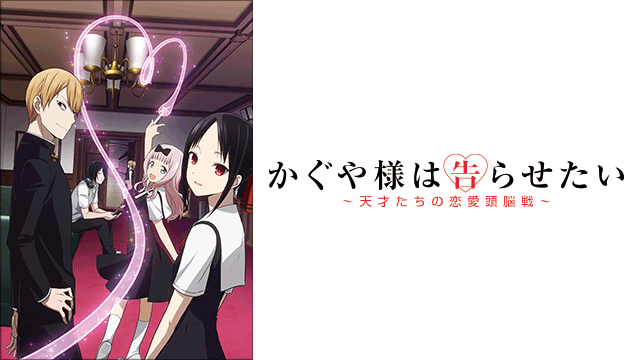
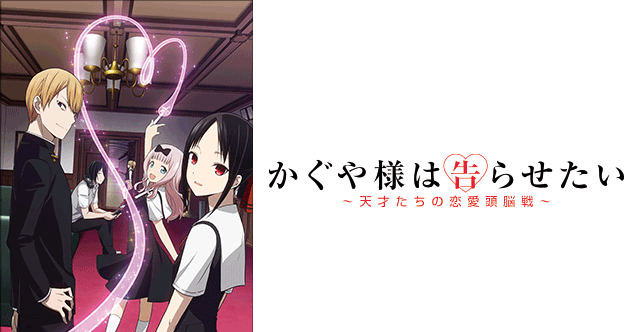
タイトルレスポンシブ完成

Changed region(s): [[0.0, 0.0, 0.989, 1.0]]

diff --git a/stylesheet.scss b/stylesheet.scss
@@ -14,7 +14,6 @@ time, mark, audio, video {
   padding: 0;
   border: 0;
   outline: 0;
-  font-size: 100%;
   vertical-align: baseline;
   background: transparent;
 }
@@ -28,7 +27,7 @@ html,body{
     width: 100%;
 }
 *{
-    font-size: 16px;
+    font-size: 18px;
     line-height: 1.5em;
 }
 
@@ -71,13 +70,13 @@ html,body{
     display: none;
 }
 .start{
-font-size: 1.25rem;
+font-size: 1.4rem;
 text-align: center;
 padding-top: 10px;
 }
 .image{
     width: 100%;
-    height: 230px;
+    height:220px;
 }
 .irohaA{
   width: 100%;
@@ -98,7 +97,7 @@ padding-top: 10px;
     background-color: rgb(241, 227, 171);
 }
 .startT{
-font-size: 1.25rem;
+font-size: 1.7rem;
 padding-bottom: 18px;
 text-align: center;
 }
@@ -115,7 +114,7 @@ text-align: center;
     font-size: 1rem;
 }
 .p3{
-    font-size: 1.5rem;
+    font-size: 1.7rem;
     text-align: center;
     padding-top: 30px;
     padding-bottom: 24px;
@@ -325,7 +324,36 @@ h4{
     display: none;
 }
 
+
+@media (min-width:540px){
+
+  .imgContain{
+    text-align: center;
+  }
+  .image{
+    width: 100%;
+    height:300px;
+}
+}
+
 @media (min-width:1024px){
+  .image{
+    width: 100%;
+    height:480px;
+}
+.flex-skin{
+  display: flex;
+  padding-left: 20px;
+  padding-right: 20px;
+}
+.btn{
+  margin-top: 20px;
+}
+.wide-moniter{
+  width: 50%;
+  padding-left: 20px;
+  padding-right: 20px;
+}
   .card{
     width:192px;
     height:192px;

diff --git a/stylesheet.css b/stylesheet.css
@@ -15,7 +15,6 @@ time, mark, audio, video {
   padding: 0;
   border: 0;
   outline: 0;
-  font-size: 100%;
   vertical-align: baseline;
   background: transparent;
 }
@@ -33,7 +32,7 @@ html, body {
 }
 
 * {
-  font-size: 16px;
+  font-size: 18px;
   line-height: 1.5em;
 }
 
@@ -78,14 +77,14 @@ html, body {
 }
 
 .start {
-  font-size: 1.25rem;
+  font-size: 1.4rem;
   text-align: center;
   padding-top: 10px;
 }
 
 .image {
   width: 100%;
-  height: 230px;
+  height: 220px;
 }
 
 .irohaA {
@@ -111,7 +110,7 @@ html, body {
 }
 
 .startT {
-  font-size: 1.25rem;
+  font-size: 1.7rem;
   padding-bottom: 18px;
   text-align: center;
 }
@@ -130,7 +129,7 @@ html, body {
 }
 
 .p3 {
-  font-size: 1.5rem;
+  font-size: 1.7rem;
   text-align: center;
   padding-top: 30px;
   padding-bottom: 24px;
@@ -392,7 +391,36 @@ h4 {
   display: none;
 }
 
+@media (min-width: 540px) {
+  .imgContain {
+    text-align: center;
+  }
+  .image {
+    width: 100%;
+    height: 300px;
+  }
+}
+
 @media (min-width: 1024px) {
+  .image {
+    width: 100%;
+    height: 480px;
+  }
+  .flex-skin {
+    display: -webkit-box;
+    display: -ms-flexbox;
+    display: flex;
+    padding-left: 20px;
+    padding-right: 20px;
+  }
+  .btn {
+    margin-top: 20px;
+  }
+  .wide-moniter {
+    width: 50%;
+    padding-left: 20px;
+    padding-right: 20px;
+  }
   .card {
     width: 192px;
     height: 192px;

diff --git a/index.html b/index.html
@@ -23,7 +23,7 @@
 </div>
 <div class="y">
   <div id="imagC" class="imgContain">
-    <h3 id="clearTime" class="startT">---- 遊び方 ----</h3>
+    <h3 id="clearTime" class="startT">～ 遊び方 ～</h3>
     <p class="p">パネルをクリックして同じ絵柄を2枚そろえて消していきましょう。</p>
     <p class="p">パネルをクリックすると画像シーンのボイスが流れます。</p>
     <p class="p">全て消えるとクリアです。</p>
@@ -31,20 +31,29 @@
   </div>
 </div>
 
-<p class="p3">---- ゲームモード選択----</p>
+<p class="p3">～ ゲームスキン選択 ～</p>
 <p class="p2">キャラボイスは各編全20種のうち10種がランダムに出現！</p>
+
+<div class="flex-skin">
+<div class="wide-moniter">
 <div class="select-image-contain">
 <img id="irohaImg" class="select-iroha" src="image/maxresdefault.jpg" alt="画像">
 </div>
 <div class="btn-back-color">
 <button id="irohaBtn" class="btn iroha">一色いろは編</button>
 </div>
+</div>
+
+<div class="wide-moniter">
 <div class="select-image-contain">
   <img id="irohaImg" class="select-iroha" src="image/kaguyahp.png" alt="画像">
 </div>
 <div class="btn-back-color">
 <button id="kaguyaBtn" class="btn kaguya">かぐ告編</button>
 </div>
+</div>
+</div>
+
 </div>
 
 <div id="cardBox" class="card-container">
